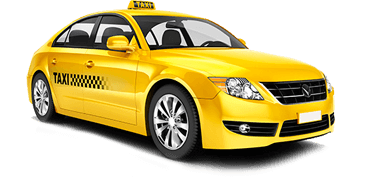
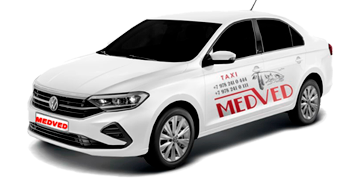
Замена всех автомобилей

diff --git a/index.html b/index.html
@@ -185,7 +185,7 @@
 
 					<div class="tarif_items">
 
-						<img class="tarif_items_car" src="img/price_tax.png" alt="такси цены">
+						<img class="tarif_items_car" src="img/Comfort.png" alt="такси цены">
 						
 						<div class="tarif_title">тариф Комфорт</div>
 						<div class="tarif_terms">Если вы цените удобство и желаете получить удовольствие от поездки,
@@ -197,7 +197,7 @@
 
 					<div class="tarif_items">
 
-						<img class="tarif_items_car" src="img/price_tax.png" alt="такси цены">
+						<img class="tarif_items_car" src="img/price_tax_com+.png" alt="такси цены">
 						<div class="tarif_title">тариф Комфорт +</div>
 						<div class="tarif_terms">Для обеспечения этой услуги выделены самые комфортабельные и презентабельные
 							машины, предназначенные для самых разных мероприятий.
@@ -209,7 +209,7 @@
 
 					<div class="tarif_items">
 
-						<img class="tarif_items_car" src="img/price_tax.png" alt="такси цены">
+						<img class="tarif_items_car" src="img/universal.png" alt="такси цены">
 						<div class="tarif_title">тариф Универсал</div>
 						<div class="tarif_terms">К данной категории относятся более удобные автомобили, для поездок с
 							багажом, с более просторным багажником и салоном.</div>
@@ -220,7 +220,7 @@
 
 					<div class="tarif_items">
 
-						<img class="tarif_items_car" src="img/price_tax.png" alt="такси цены">
+						<img class="tarif_items_car" src="img/Miniven.png" alt="такси цены">
 						<div class="tarif_title">тариф Минивэн</div>
 						<div class="tarif_terms">Тариф предназначен облегчить Ваши поездки с большими компаниями и с
 							багажом в городе и за городом.
